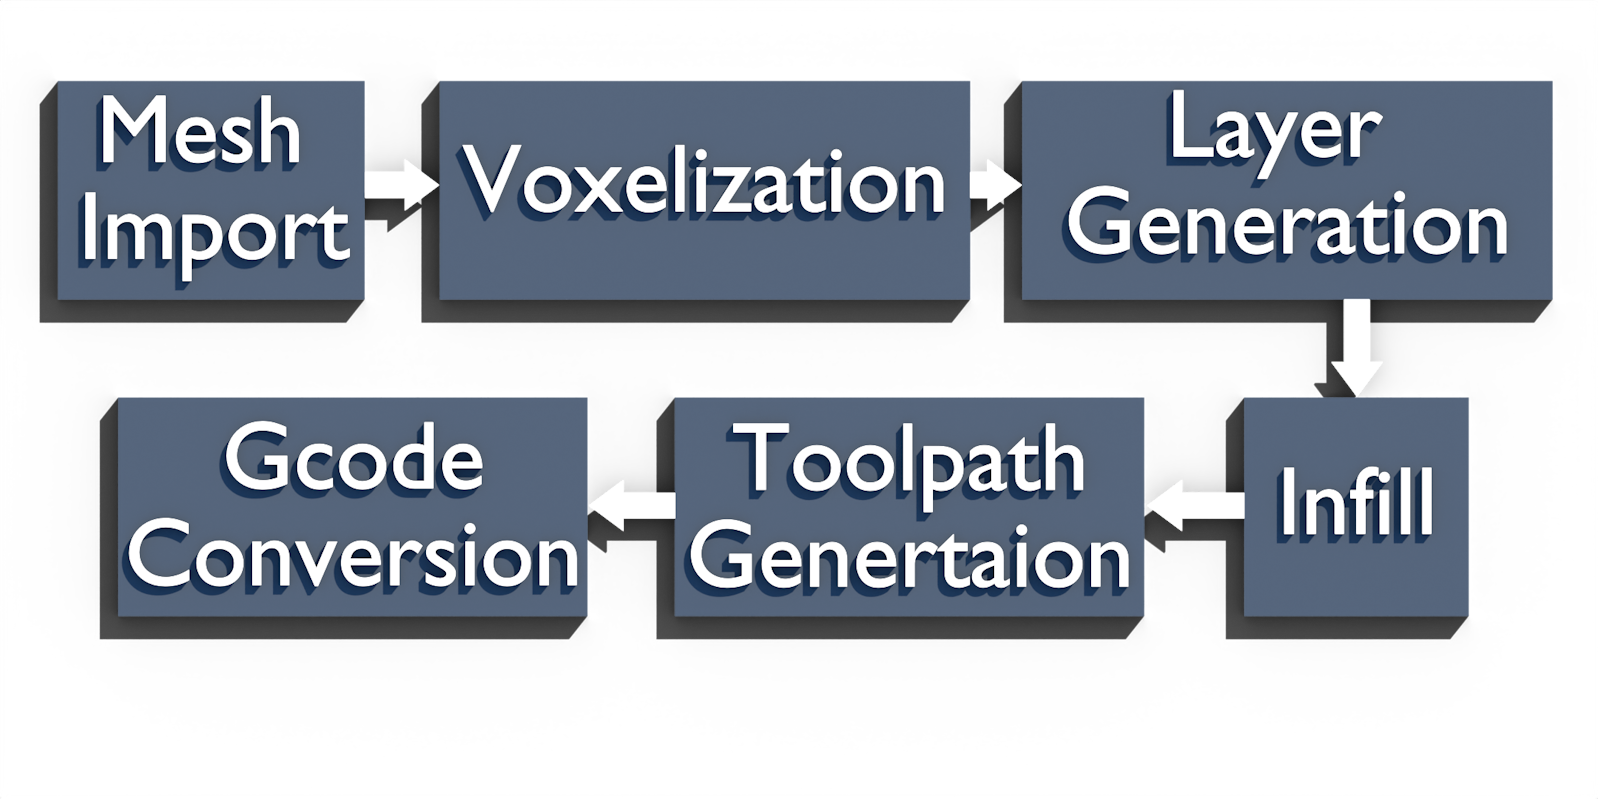
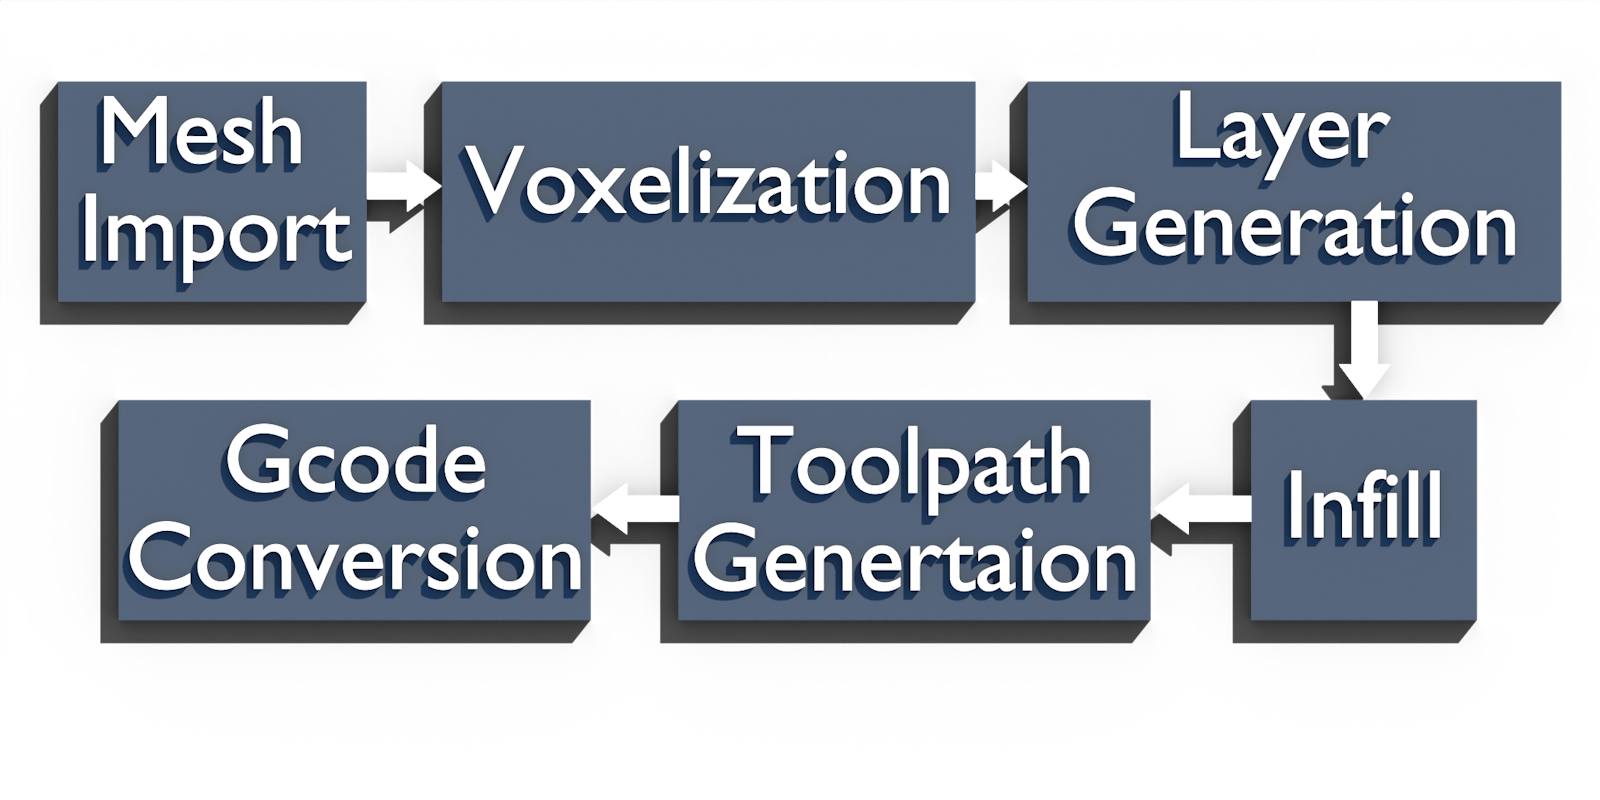
Fixed devlog1 iamge, added devlog2

diff --git a/Pages/Devlog2.html b/Pages/Devlog2.html
@@ -1,0 +1,26 @@
+<html lang="en">
+<head>
+    <meta charset="UTF-8">
+    <link rel="canonical" href="https://geekworksresearch.com/Pages/Devlog2">
+    <meta name="description" content="Join me on my journey towards supportless slicing in this devlog where we tackle rounding errors and optimize our methods for immense amounts of data. We will explore how specific algorithms can be used to voxelize a mesh.">
+    <meta name="viewport" content="width=device-width, initial-scale=1.0">
+    <title>GeekWorks Devlog 2: Block-by-Block</title>
+    <link rel="stylesheet" href="devlog.css">
+    <link rel="icon" type="image/x-icon" href="../GeekWorksLogo.png">
+</head>
+<body>
+    <div id="BannerImage"><img src="../Images/Devlog2/Banner.png">
+<h1>Block-by-Block</h1></div>
+    <div id="TextArea"><h4>The first step towards non-planar printing</h4><p>As the core of V-Slicing relies on voxels we need to find a method to convert our mesh into a useful format. I decided to start this process by importing the mesh using Assimp, which makes pretty much every 3D model format importable. To fix up the mesh a bit I use the option to merge nearby vertices, this makes sure that we don't get gaps between the triangles, which shouldn't happen often, but it did come up in testing due to rounding errors. However, this was the point where the simple no-brainer decisions ended.</p><h4>Rounding errors, and robustness</h4><p>A major consideration for me was how each method handles mesh errors. For example, missing walls, walls inside the mesh that shouldn't be there. This is because I've found that a lot of freely available models have atrocious topology. I'm not throwing shade towards the people who model them, as that isn't an easy process and they are posting the files for free, I have no right to complain, especially since errors like these are really easy to make on a high-resolution model in blender. This however means that we have to account for it and make the voxelization step as robust as possible.</p><p>I've tried 3 methods for voxelizing the mesh, each having its pros and cons. The first was the most obvious to me, making a grid along xy, placing vertical lines in every grid square, and then running the Möller–Trumbore algorithm to get all ray-triangle intersections along the line.</p><p><img src="../Images/Devlog2/Moller.webp"style="float:left;"></img>
+Once we have these points we can utilize the fact that we know which side of the triangle we hit and start drawing if the triangle hit has a negative value in its normal for the z coordinate( the triangle faces down) and stop drawing voxels at the next point where the normal's z is positive(the triangle faces up). This is good for multiple reasons. First of all, we know when we are inside of the mesh and can fill the mesh completely. Second, we can theoretically handle walls inside the model... But as you can guess since this was the first method and I tried 2 others... this didn't really work.</p><p>This method should probably work better, but I most likely messed something up on top of some basic logical issues. When I implemented this method I noticed that the whole inside/outside distinction didn't work well and I think I know why. The reason was the next major issue, missing triangles when checking from voxels. Who'd have thought, that if you try to check a whole grid cell with a single line you will end up missing triangles that don't hit the line but are inside the voxel... This led to points that didn't get closed at the right height, for example, the benchy doors were somewhat filled in. Or the stand I added and the areas around the flag holder had holes in the infill. I implemented a "voting" system or cellular automata if a cell had at least x neighbors of the opposing type out of the 3 types which are shell, infill, and air then it would swap to that type. This mostly worked but the whole process took too long, as you have to run it multiple times for it to work best. The intersection calculation could be optimized to be faster to some extent by a quadtree, so we only checked relevant triangles for a line, but the holes remained and sometimes ruined the slicing process. We need something more robust and reliable.</p><p><img src="../Images/Devlog2/DF.webp"style="float:left;"></img>
+I figured that if the issue was small gaps, I would just add an extra padding with a DF. A distance field is a function that tells you how far away from something you are, they are commonly used in computer graphics. So I implemented a triangle DF function and it worked mostly, but the amount of padding needed from the triangle to close the gaps was so large that the object looked puffy, which was an interesting effect(may add that later as an artistic effect), but it wasn't good for dimensionally accurate parts. The more interesting part of this process was the corrosion system I added to fill the mesh. Step one was adding the shell, this didn't help determine the inside of the mesh, but it did give us a mold to fill. We then fill the whole bounding box of the object with infill marked voxels, then we add all the infills that touch air(or have voxels that are outside the grid) to a queue. After this, we run a breadth-first search to corrode away all parts that touch air. We don't corrode voxels that have at least 3-4 shell voxels attached, which helps fill in random 1 voxel holes. This method doesn't care about extra walls inside the mesh but does mean a puffy mesh.</p><p>Incomes rasterization, which is usually a way of turning triangles into pixels, which are the 2d equivalent of voxels. It's a fast process with relatively simple algorithms. The new method keeps the corrosion step but replaces the df-based shell generation removing the puffy effect. On top of being more accurate, it is also faster, as we only traverse active voxels of the triangle. With the DF algorithm, we checked every voxel of the triangle's bounding box, which meant that we would check a lot of voxels that weren't actually part of the triangle.</p><p><img src="../Images/Devlog2/Raster.webp"style="float:left;"></img>
+Voxelizing a triangle this way is fast and simple. We first convert the triangle's vertices into voxel coordinate space. Then we can draw a perfect voxel line along all 3 edges with Bresanham's line algorithm. We add the edge voxels to a list which we then group by z and order by xy. We then draw a line between all points of the groups. Usually most groups have just two voxels but grouping and drawing lines between all voxels that come after each other makes it more robust. This produces a mostly correct triangle, but since we grouped by z we will have gaps when looking from certain angles. To remedy this we run this two more times grouping by x and then by y in those runs. We then add all the voxels to the voxel mesh, and the separate passes cover the gaps for their respective axis, giving us a perfectly voxelized triangle.</p><p>The corrosion and the new shell voxelization together give us a properly voxelized mesh. This method also retains dimensional accuracy. There is one problem, the code was written to work, not work fast. It collects each triangle's voxels into a collection(mostly has maps to speed up checking for specific voxels). Which then gets merged with the other triangles' voxels. From this, we remove duplicates and then add them to another hashset that represents the voxel mesh. These steps take quite a long time. On top of this the heavy use of LINQ results in large amounts of memory and processing power wasted. I used the .AsParallel() which allows for some level of automagical loop parallelism. However this usually only pushes my CPU to 50%. Furthermore, the corrosion step is a basic breadth-first search, which is single core. All these inefficiencies result in voxelization taking minutes at a resolution of 0.4mm for the floating benchy.</p><h4>Time for some optimization</h4><p>What I've described up to this point was the proof of concept slicer's voxelization stage. For the rewrite performance like that is just plain unacceptable. So I got to work. The first fundamental change was creating an abstraction for voxel meshes. I created an interface called IVoxelCollection. The purpose of this abstraction will be to allow for using different internal data structures to be less locked into something like I got in the first version with hashmaps.</p><p>The interface has a Contains(pos) and WithinBounds(pos), where Contains calls WithinBounds and also checks if the given voxel is active, this makes the actual code easier to read. The key is that every class that inherits from IVoxelCollection must implement the [] set get functions(like you would use an array), this means that due to polymorphism I can use an IVoxelCollection variable in the logic where the actual collection gets passed in from outside. Like this, I can change the type of collection used to anything as long as I wrap it in a custom class that inherits IVoxelCollection and the logic won't break. This came in handy while developing, as I wanted to see which would be faster. A 1D array or a 3D array. I wanted to see the differences, turns out they are almost the same with 1D arrays just barely beating out 3D arrays winning by about 1s in voxelization(8sec vs 9sec) and the same in layer generation(15s instead of 16s) even with the ids having to be calculated the 1D arrays seems to come out on top while also using a 100mb less ram(2.7 GB vs 2.8 GB). As you can see the performance for voxelization will be improved significantly from 6-8 minutes to 8-9 seconds. This doesn't mean that we get a 60x performance improvement, as the old slice times were for 0.4mm resolution the new tests are run at the target resolution for this rewrite of 0.1mm which means that 64 times the voxels were processed leading to an improvement of more than 3500 times in voxelization.</p><p>How did I achieve that level of performance? With multiple steps over two days of staring at a blank console until a time pops up when it's done, and also exporting the STL to check in cura, which surprisingly proved to be the most convenient STL viewer that I currently have installed, as blender takes too many steps to import a model.</p><p>The first step was removing needless complexity by switching to the proper data structure for something like this. This was for most of the testing C#'s built-in 3D array. There are downsides like the immense memory usage. 2.7 GB for a benchy is too much, but for now, it is usable and that's what matters and I can swap it out later to something better thanks to the interface. I will most likely use something like an oct-tree with the nodes being arrays where each voxel is at most a single byte. I'm not sure how much of a performance impact replacing the hashset was since a HashSet-based IVoxelCollection wouldn't work properly with the highly parallel nature of the new code. So that means at least a 16x performance increase from multithreading by replacing that.</p><p>After this, I removed the increased complexity that came from trying to use 16 threads with a hashmap. This included not collecting active voxels from every triangle into a single temporary collection. The rewrite passes in a reference to the voxel collection to each triangle which then can just set any voxel they want to be a shell value. Since we just care about which voxels are shells and which aren't, we don't need synchronization as we don't care which triangle sets the value to 1. This removes 2 unions of lists per triangle. By this time the voxelization was starting to get performant compared to the old version as a 0.1mm benchy took around 1-2 minutes to voxelize, which was about a 256x improvement when accounting for the 4x higher resolution. It was getting close to being usable. After this, I took the liberty to reorder some logic to remove unnecessary calculations. I didn't spend much time benchmarking here, so I don't remember the times.</p><p>The last phase was improving the longest step, the corrosion which still takes 9x as much as shell creation and filling the mesh with infill values combined. The old system used breadth-first search and a queue, not very multi-thread friendly. I tried to use that but with some thread-safe collections which did help but it was taking too long and too many threads were idle. With the thread-safe collections, I got it to around 21-27 seconds based on which collection type I used and how many voxels each thread took when its own queue ran out. Adding this smaller queue made it so each thread had its own stash and so could work longer without having to stand in line for the next batch shortening the line as the threads would run out at different times. At this point, the only reason I kept going was that I knew how long iterating through each voxel took and I knew that it was not long at all. And since both operations are O(N) I knew that there had to be a better option. I realized something when I looked at it at this point. Each voxel's type was effectively a flag that meant that it could still be added since if it was corroded away it wasn't an infill type anymore. I used this to remove synchronizing threads completely. Now I just let threads corrode anything and the worst-case scenario is that some threads almost completely overlap, but this wouldn't usually last long just based on pure luck. This improved it a few seconds but not much. After this, I used a heuristic approach to improve it. I created a few seed points about as many as the number of physical threads. In reality about 3x of the number of hardware threads seems to be a sweet spot. I also switched to depth-first search, this may at first seem like it wouldn't change much, but it results in the threads mainly going down and then spreading out, which means less overlap between threads, and the number of seed points meant that if a thread stopped it had other places to pick up at, while not creating too much overhead by switching too many times.</p><p>With all of these optimizations, I ended up with the blazing fast voxelization step of 8-9 seconds with everything included at a higher resolution which will be key to improving the shell's accuracy. Improving slice times this much shoved me that even slice times may be competitive with current slicers if a little more hardware-intense. I plan on keeping slice times below a minute for roughly benchy-sized objects. Which I'm on track for, I already have the code for layer generation. Layers are a bit trickier as seemingly it isn't a multi-threaded problem, since the next layer always requires the previous layer's shape with this approach, but with some clever tricks, I managed to utilize 100% of my CPU and generate an average benchy layer in about 50ms which results in a 15s layer generation for the 266 nonplanar layers that make up a floating benchy. Join me next time to learn how I went insane trying to shave minutes off the layer generation too. If you want to get notified about new devlogs or ask me about the slicer you can join the  <a href="https://discord.gg/zXv3kGv7QG" target="_blank" rel="noopener noreferrer">GeekWorks discord server</a>.</p></div>
+    <div id="NavigationBar"><div style="cursor: pointer;" class="leftNav" onclick="window.location = 'Devlog1'" class="DevlogLinkLeft">Previous devlog</div>
+<div style="cursor: pointer;" class="centerNav" onclick="window.location = '../'" class="DevlogLinkMainMenu">Home Page </div>
+<div class="sideNav"></div>
+
+
+    </div>
+    <script src="../scripts/devlog.js"></script>
+</body>
+</html>

diff --git a/Pages/Devlog1.html b/Pages/Devlog1.html
@@ -18,7 +18,7 @@ Because the resolution here was 0.8mm, the voxelization artifacts are easily vis
 When I first examined the print I was delighted with the quality of the horizontal overhang. This overhang method should only work when the line width matches the nozzle size. Considering this the result for a 0.8mm line width on a 0.6mm nozzle, it is quite clean. This shows that V-Slicing successfully integrates the strengths of conical slicers and arc overhangs while negating their weaknesses. We can also see how the layer's shape changes to best fit the model. This however can cause issues. The text for example had to be removed in this version because it would result in areas that tried to print below already printed areas. This was fixed when I changed the layer generation logic, and so it won't be a problem in Crystalite. This fix also allows layers to become thicker when that is possible without causing a collision. This also has the unexpected side effect of eliminating stair stepping almost completely on any printed layer thickness given a high enough z resolution.</p><p>Since I made that test print, I have added multiple upgrades to the test build. However, I realized that the fundamentals needed to change so much that I chose to do a complete rewrite. This is due to many reasons. In the first two versions, infill was added during voxelization. This however also meant that some areas that had support printed as if they were overhangs resulting in worse print quality and reduced print speeds. For this reason, infill was moved to after layer generation which isn't possible in the test version cleanly. The way voxels are stored needs to change as well. The test version uses hash sets which isn't a bad option, but if we want to use the GPU we need to replace it with arrays. This means that a rewrite is necessary.<br>I tested greedy layers, which is a method meant to increase layer thickness by printing a benchy. During this test print there was an off-by-one error somewhere in the code leading to major over-extrusion and an unusable part. However greedy layers did provide the expected result of much faster print times with heavily reduced stair stepping where visible from the ~30-40% over extrusion. At this point, I already decided on a complete rewrite so I didn't bother finding the error. As such I am not planning on releasing this test build. Instead, I will focus on Crystalite development and releasing a polished, safe-to-use slicer.</p><h4>Going forward</h4><p>I will try to get devlogs out as often as possible, but given that each focuses on a stage of the slicer, release intervals may vary. As such I decided to create a <a href="https://discord.gg/zXv3kGv7QG" target="_blank" rel="noopener noreferrer">Discord</a> server where I will post a notification when a new devlog is out. It's also a place where you can share your thoughts about the project. And if you would like to support development I have also set up a <a target="_blank" rel="noopener noreferrer" href="https://patreon.com/GeekWorks?utm_medium=unknown&utm_source=join_link&utm_campaign=creatorshare_creator&utm_content=copyLink">Patreon</a> page where I will be posting a few behind-the-scenes photos and updates.</p><p>In the next devlog, I will be starting work on the actual code for Crystalite. That devlog will be about code structure, mesh import, and voxelization. Development will have two phases, the first one will be getting the algorithms to work together and creating the UI for it. The second phase will focus on migrating the code from the CPU to the GPU to decrease slicing time.</p></div>
     <div id="NavigationBar"><div style="cursor: pointer;" class="leftNav" onclick="window.location = 'Devlog0'" class="DevlogLinkLeft">Previous devlog</div>
 <div style="cursor: pointer;" class="centerNav" onclick="window.location = '../'" class="DevlogLinkMainMenu">Home Page </div>
-<div class="sideNav"></div>
+<div style="cursor: pointer;" class="rightNav" onclick="window.location = 'Devlog2'" class="DevlogLinkRight">Next devlog</div>
 
 
     </div>

diff --git a/index.html b/index.html
@@ -13,7 +13,7 @@
 <img class="MainSlide" src="Images/Devlog1/Banner.png" alt="This is highlight image"></div>
     <div class="DevlogHighlights">
         <h2>Crystalite Devlogs</h2>
-        <div id="DevlogTable"><div style="cursor: pointer;" onclick="window.location = 'Pages/Devlog1'" class="DescriptionRow"><h3>Devlog 1: Beyond geometrical shapes</h3><div class="imgTd"><img src="Images/Devlog1/Thumbnail.png"></img></div><div class="Description"><p>In this devlog, I will be explaining the fundamentals of, and some of my experiences from developing, V-Slicing, a brand-new slicing method built on simple ideas. Designed to overcome the limitations of current methods. I also showcase a test print sliced with one of the development versions. We will look at the limitations of this basic implementation of the method.</p></div></div><div style="cursor: pointer;" onclick="window.location = 'Pages/Devlog0'" class="DescriptionRow"><h3>Devlog 0: Journey To Slicing's Bleeding Edge</h3><div class="imgTd"><img src="Images/Devlog0/Thumbnail.png"></img></div><div class="Description"><p>Join me at the forefront of 3D printing innovation. In this introductory devlog, we'll explore groundbreaking slicing techniques that challenge the status quo. From conical slicing to arc overhangs, we'll examine these alternative approaches their limitations, and advantages that form the foundation for V-Slicing.</p></div></div></div>
+        <div id="DevlogTable"><div style="cursor: pointer;" onclick="window.location = 'Pages/Devlog2'" class="DescriptionRow"><h3>Devlog 2: Block-by-Block</h3><div class="imgTd"><img src="Images/Devlog2/Thumbnail.png"></img></div><div class="Description"><p>Join me on my journey towards supportless slicing in this devlog where we tackle rounding errors and optimize our methods for immense amounts of data. We will explore how specific algorithms can be used to voxelize a mesh.</p></div></div><div style="cursor: pointer;" onclick="window.location = 'Pages/Devlog1'" class="DescriptionRow"><h3>Devlog 1: Beyond geometrical shapes</h3><div class="imgTd"><img src="Images/Devlog1/Thumbnail.png"></img></div><div class="Description"><p>In this devlog, I will be explaining the fundamentals of, and some of my experiences from developing, V-Slicing, a brand-new slicing method built on simple ideas. Designed to overcome the limitations of current methods. I also showcase a test print sliced with one of the development versions. We will look at the limitations of this basic implementation of the method.</p></div></div><div style="cursor: pointer;" onclick="window.location = 'Pages/Devlog0'" class="DescriptionRow"><h3>Devlog 0: Journey To Slicing's Bleeding Edge</h3><div class="imgTd"><img src="Images/Devlog0/Thumbnail.png"></img></div><div class="Description"><p>Join me at the forefront of 3D printing innovation. In this introductory devlog, we'll explore groundbreaking slicing techniques that challenge the status quo. From conical slicing to arc overhangs, we'll examine these alternative approaches their limitations, and advantages that form the foundation for V-Slicing.</p></div></div></div>
     </div>
     <!-- Your HTML content goes here -->
     <script src="./scripts/index.js"></script>
